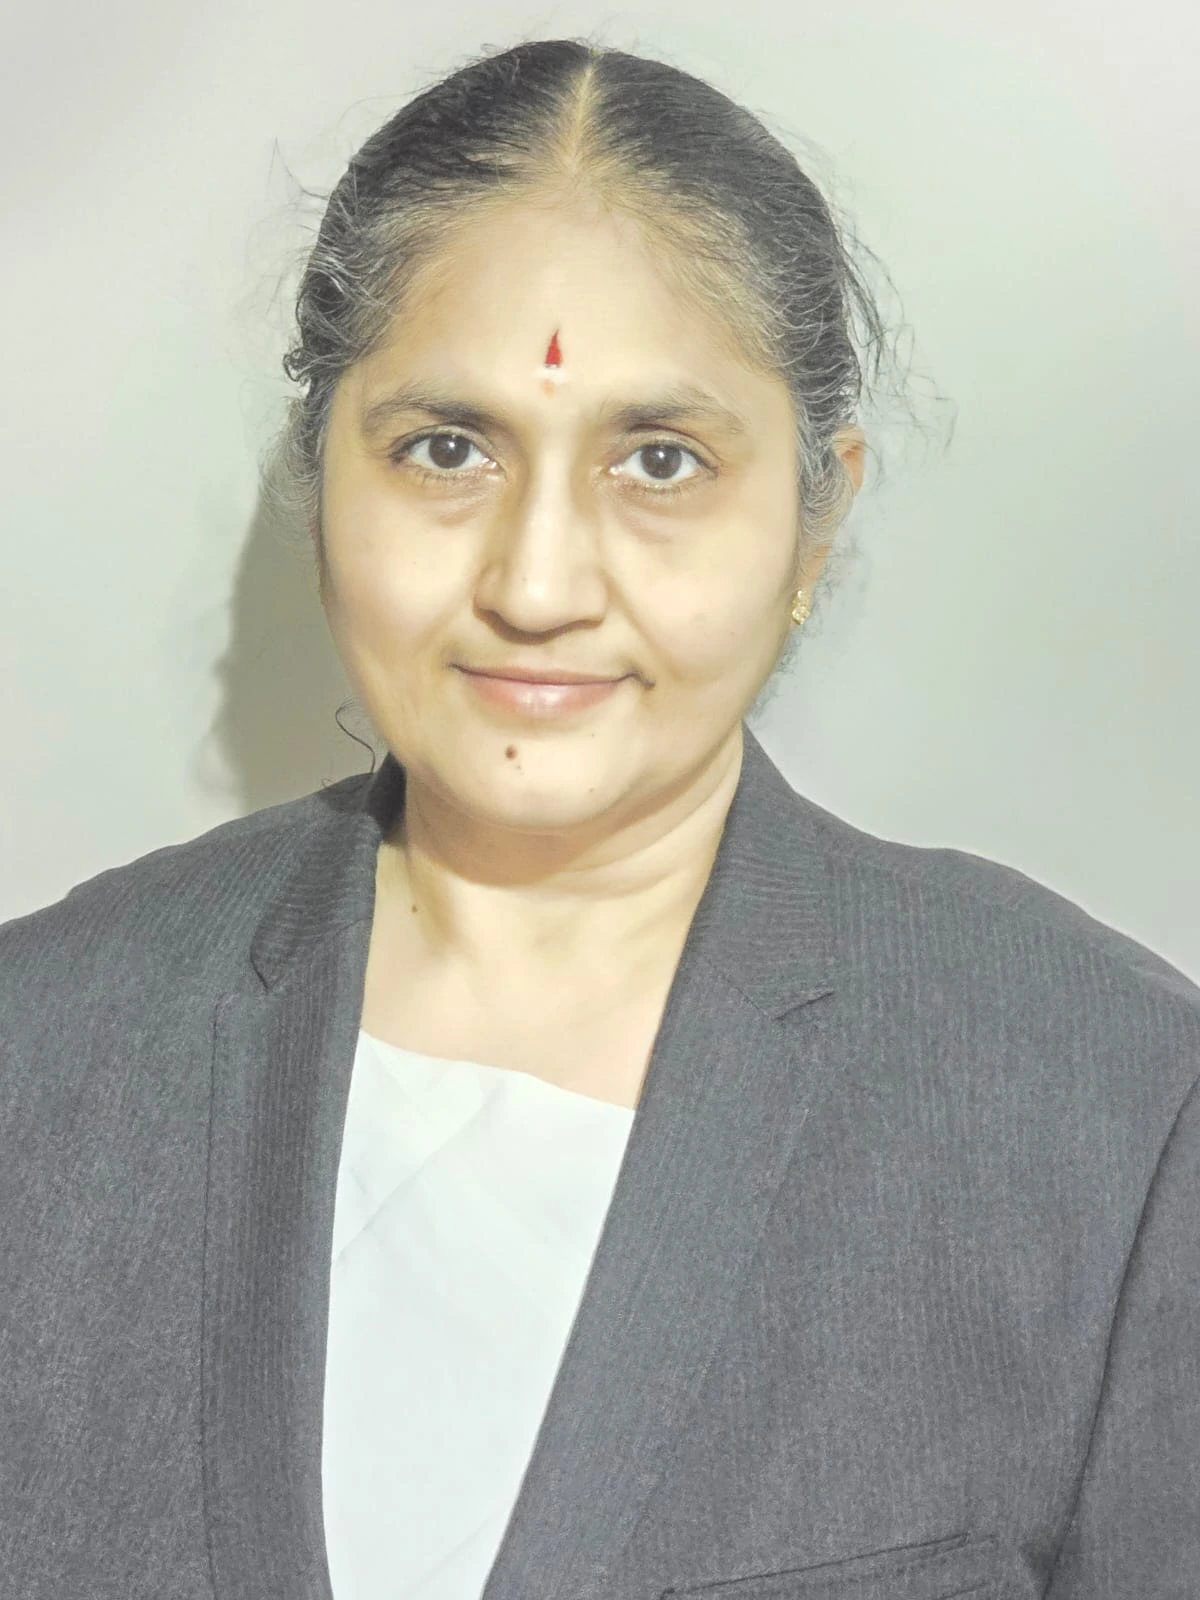
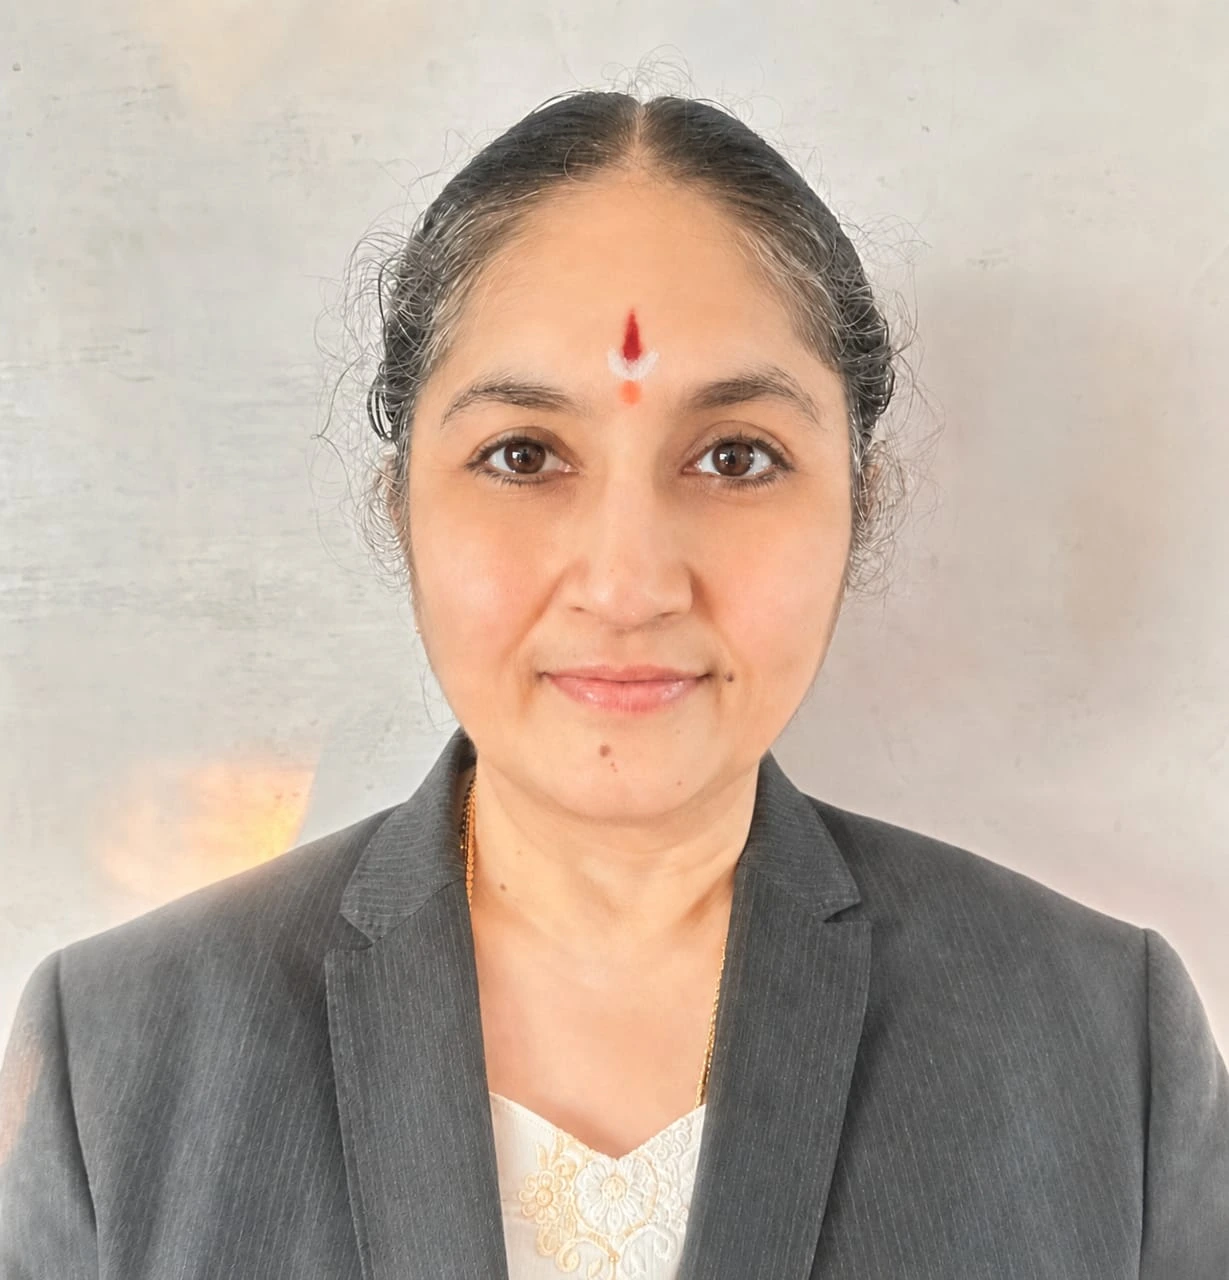
Update team section: added Dr. Nageshwar and Dr. Kavya, updated images and sequence

diff --git a/src/app/world-allergy-foundation/WAFClient.js b/src/app/world-allergy-foundation/WAFClient.js
@@ -822,9 +822,48 @@ export default function WorldAllergyFoundation() {
               </div>
             </FadeInBlur>
             
-            <div className="grid grid-cols-1 sm:grid-cols-2 lg:grid-cols-4 gap-8 items-start">
-              {/* Dr. Bhagheerathi */}
+            <div className="grid grid-cols-1 sm:grid-cols-2 lg:grid-cols-3 gap-12 items-start">
+              {/* 1. Dr. Vyakarnam Nageshwar */}
               <FadeInBlur>
+                <motion.div whileTap={{ scale: 0.99 }} className="group space-y-8">
+                  <Tilt>
+                    <div 
+                      className="aspect-[4/5] relative rounded-[2rem] md:rounded-[3rem] overflow-hidden shadow-2xl border border-slate-100 group-hover:shadow-primary/20 transition-all duration-700 cursor-zoom-in"
+                      onClick={() => setSelectedImg({ src: "/images/dr-nageswar.webp", alt: "Dr. Vyakarnam Nageshwar" })}
+                    >
+                      <Image
+                        src="/images/dr-nageswar.webp"
+                        alt="Dr. Vyakarnam Nageshwar"
+                        fill
+                        className="object-cover object-top group-hover:scale-105 transition-transform duration-700"
+                      />
+                      <div className="absolute inset-0 bg-gradient-to-t from-slate-900/80 via-transparent to-transparent opacity-0 group-hover:opacity-100 transition-opacity duration-700" />
+                    </div>
+                  </Tilt>
+                  <div className="space-y-4 text-center">
+                    <h3 className="text-2xl md:text-3xl font-bold font-heading text-slate-950">Dr. Vyakarnam Nageshwar</h3>
+                    <p className="text-primary font-black uppercase tracking-[0.3em] text-[9px] md:text-[10px]">MD, Founder & President</p>
+                    <p className="text-slate-500 font-bold text-sm md:text-base px-2">Chief Immunologist: Asian Institute of Allergy</p>
+                    <div className="space-y-3 pt-6 border-t border-slate-100 text-left">
+                      {[
+                        "Pioneer of Sublingual Immunotherapy (SLIT) in India.",
+                        "Expert in Aerobiology and Molecular Immunology.",
+                        "Over 50,000 cases resolved through precision medicine.",
+                        "Dedicated to root-cause diagnosis of chronic inflammation.",
+                        "Global advocate for allergy awareness and research."
+                      ].map((point, idx) => (
+                        <div key={idx} className="flex gap-3 text-slate-600 text-xs md:text-sm leading-relaxed font-medium">
+                          <div className="mt-1.5 w-1 h-1 rounded-full bg-primary shrink-0" />
+                          <p>{point}</p>
+                        </div>
+                      ))}
+                    </div>
+                  </div>
+                </motion.div>
+              </FadeInBlur>
+
+              {/* 2. Dr. Bhagheerathi Kalidass */}
+              <FadeInBlur delay={0.1}>
                 <motion.div whileTap={{ scale: 0.99 }} className="group space-y-8">
                   <Tilt>
                     <div 
@@ -862,7 +901,7 @@ export default function WorldAllergyFoundation() {
                 </motion.div>
               </FadeInBlur>
 
-              {/* Dr. Shivaranjani */}
+              {/* 3. Dr. Shivaranjani */}
               <FadeInBlur delay={0.2}>
                 <motion.div whileTap={{ scale: 0.99 }} className="group space-y-8">
                   <Tilt>
@@ -897,7 +936,7 @@ export default function WorldAllergyFoundation() {
                         "Decade of Pharma industry experience.",
                         "Expert in Allergen Immunotherapy protocols.",
                         "Consultant: Drug Interactions.",
-                        "One more point for a smile : Featured in Republic World Network among INDIA'S TOP 15 Visionary Entrepreneurs in 2026."
+                        "Featured in Republic World Network among INDIA'S TOP 15 Visionary Entrepreneurs in 2026."
                       ].map((point, idx) => (
                         <div key={idx} className="flex gap-3 text-slate-600 text-xs md:text-sm leading-relaxed font-medium">
                           <div className="mt-1.5 w-1 h-1 rounded-full bg-primary shrink-0" />
@@ -909,8 +948,92 @@ export default function WorldAllergyFoundation() {
                 </motion.div>
               </FadeInBlur>
 
-              {/* Vyakaranam Padma */}
+              {/* 4. Dr. Kavya Lalam */}
+              <FadeInBlur delay={0.3}>
+                <motion.div whileTap={{ scale: 0.99 }} className="group space-y-8">
+                  <Tilt>
+                    <div 
+                      className="aspect-[4/5] relative rounded-[2rem] md:rounded-[3rem] overflow-hidden shadow-2xl border border-slate-100 group-hover:shadow-primary/20 transition-all duration-700 cursor-zoom-in"
+                      onClick={() => setSelectedImg({ src: "/images/Dr. Kavya.webp", alt: "Dr. Kavya Lalam" })}
+                    >
+                      <Image
+                        src="/images/Dr. Kavya.webp"
+                        alt="Dr. Kavya Lalam"
+                        fill
+                        className="object-cover group-hover:scale-105 transition-transform duration-700"
+                        sizes="(max-width: 768px) 100vw, 25vw"
+                      />
+                      <div className="absolute inset-0 bg-gradient-to-t from-slate-900/80 via-transparent to-transparent opacity-0 group-hover:opacity-100 transition-opacity duration-700" />
+                    </div>
+                  </Tilt>
+
+                  <div className="space-y-4 text-center">
+                    <h3 className="text-2xl md:text-3xl font-bold font-heading text-slate-950">Dr. Kavya Lalam</h3>
+                    <p className="text-primary font-black uppercase tracking-[0.3em] text-[9px] md:text-[10px]">Physician Asst.</p>
+                    <p className="text-slate-500 font-bold text-sm md:text-base px-2">Expert in Immune Nutrition & Functional Medicine</p>
+                    
+                    <div className="space-y-3 pt-6 border-t border-slate-100 text-left">
+                      <p className="text-slate-600 text-[11px] md:text-xs leading-relaxed font-medium italic">
+                        Dr. Kavya Lalam is a Doctorate in Immune Nutrition and Functional Medicine Expert at Ashwini Allergy Center.
+                      </p>
+                      {[
+                        "Specializes in nutritional approaches for chronic inflammation.",
+                        "Focus areas include Allergic Rhinitis, Urticaria, and Psoriasis.",
+                        "Expertise in childhood allergic manifestations.",
+                        "Integrates personalized nutrition with functional medicine."
+                      ].map((point, idx) => (
+                        <div key={idx} className="flex gap-3 text-slate-600 text-xs md:text-sm leading-relaxed font-medium">
+                          <div className="mt-1.5 w-1 h-1 rounded-full bg-primary shrink-0" />
+                          <p>{point}</p>
+                        </div>
+                      ))}
+                    </div>
+                  </div>
+                </motion.div>
+              </FadeInBlur>
+
+              {/* 5. Mr. Sivakumar Thotapalli */}
               <FadeInBlur delay={0.4}>
+                <motion.div whileTap={{ scale: 0.99 }} className="group space-y-8">
+                  <Tilt>
+                    <div 
+                      className="aspect-[4/5] relative rounded-[2rem] md:rounded-[3rem] overflow-hidden shadow-2xl border border-slate-100 group-hover:shadow-primary/20 transition-all duration-700 cursor-zoom-in"
+                      onClick={() => setSelectedImg({ src: "/images/Sivakumar.webp", alt: "Mr. Sivakumar Thotapalli" })}
+                    >
+                      <Image
+                        src="/images/Sivakumar.webp"
+                        alt="Mr. Sivakumar Thotapalli"
+                        fill
+                        className="object-cover group-hover:scale-105 transition-transform duration-700"
+                        sizes="(max-width: 768px) 100vw, 25vw"
+                      />
+                      <div className="absolute inset-0 bg-gradient-to-t from-slate-900/80 via-transparent to-transparent opacity-0 group-hover:opacity-100 transition-opacity duration-700" />
+                    </div>
+                  </Tilt>
+
+                  <div className="space-y-4 text-center">
+                    <h3 className="text-2xl md:text-3xl font-bold font-heading text-slate-950">Mr. Sivakumar Thotapalli</h3>
+                    <p className="text-primary font-black uppercase tracking-[0.3em] text-[9px] md:text-[10px]">Public Health Advisor</p>
+                    <p className="text-slate-500 font-bold text-sm md:text-base px-2">Global Health & Policy Advocate</p>
+                    <div className="space-y-3 pt-6 border-t border-slate-100 text-left">
+                      <p className="text-slate-600 text-xs md:text-sm leading-relaxed font-medium italic text-center">
+                        "Contributing an international perspective to allergy awareness."
+                      </p>
+                      <div className="space-y-2">
+                        <p className="text-slate-600 text-[11px] md:text-xs leading-relaxed">
+                          Supports initiatives related to allergy awareness and preventive healthcare.
+                        </p>
+                        <p className="text-slate-600 text-[11px] md:text-xs leading-relaxed">
+                          Engaged in global platforms like the World Health Summit and G20.
+                        </p>
+                      </div>
+                    </div>
+                  </div>
+                </motion.div>
+              </FadeInBlur>
+
+              {/* 6. Vyakaranam Padma */}
+              <FadeInBlur delay={0.5}>
                 <motion.div whileTap={{ scale: 0.99 }} className="group space-y-8">
                   <Tilt>
                     <div 
@@ -922,6 +1045,7 @@ export default function WorldAllergyFoundation() {
                         alt="Ms. Vyakaranam Padma"
                         fill
                         className="object-cover group-hover:scale-105 transition-transform duration-700"
+                        sizes="(max-width: 768px) 100vw, 25vw"
                       />
                       <div className="absolute inset-0 bg-gradient-to-t from-slate-900/80 via-transparent to-transparent opacity-0 group-hover:opacity-100 transition-opacity duration-700" />
                     </div>
@@ -940,33 +1064,6 @@ export default function WorldAllergyFoundation() {
                         </p>
                         <p className="text-slate-600 text-[11px] md:text-xs leading-relaxed">
                           Worked extensively on healthcare dispute resolution and patents.
-                        </p>
-                      </div>
-                    </div>
-                  </div>
-                </motion.div>
-              </FadeInBlur>
-
-              {/* Mr. Sivakumar Thotapalli */}
-              <FadeInBlur delay={0.5}>
-                <motion.div whileTap={{ scale: 0.99 }} className="group space-y-8">
-                  {/* No Image for Mr. Sivakumar Thotapalli as requested */}
-                  <div className="pt-8"></div>
-
-                  <div className="space-y-4 text-center">
-                    <h3 className="text-2xl md:text-3xl font-bold font-heading text-slate-950">Mr. Sivakumar Thotapalli</h3>
-                    <p className="text-primary font-black uppercase tracking-[0.3em] text-[9px] md:text-[10px]">Public Health Advisor</p>
-                    <p className="text-slate-500 font-bold text-sm md:text-base px-2">Global Health & Policy Advocate</p>
-                    <div className="space-y-3 pt-6 border-t border-slate-100 text-left">
-                      <p className="text-slate-600 text-xs md:text-sm leading-relaxed font-medium italic text-center">
-                        "Contributing an international perspective to allergy awareness."
-                      </p>
-                      <div className="space-y-2">
-                        <p className="text-slate-600 text-[11px] md:text-xs leading-relaxed">
-                          Supports initiatives related to allergy awareness and preventive healthcare.
-                        </p>
-                        <p className="text-slate-600 text-[11px] md:text-xs leading-relaxed">
-                          Engaged in global platforms like the World Health Summit and G20.
                         </p>
                       </div>
                     </div>
@@ -1218,6 +1315,18 @@ export default function WorldAllergyFoundation() {
                 "name": "Dr. Shivaranjani",
                 "jobTitle": "Advisor & Consultant",
                 "description": "Specialist in Drug Interactions."
+              },
+              {
+                "@type": "Person",
+                "name": "Dr. Kavya Lalam",
+                "jobTitle": "Physician Asst.",
+                "description": "Doctorate in Immune Nutrition and Functional Medicine."
+              },
+              {
+                "@type": "Person",
+                "name": "Mr. Sivakumar Thotapalli",
+                "jobTitle": "Public Health Advisor",
+                "description": "Global Health & Policy Advocate."
               },
               {
                 "@type": "Person",